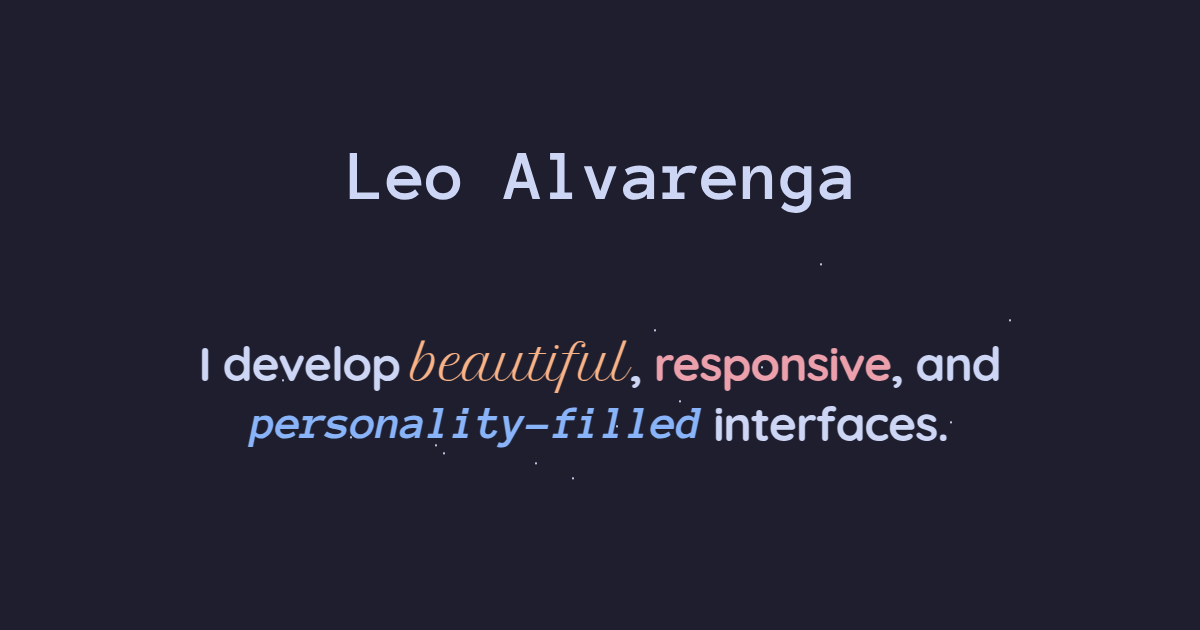
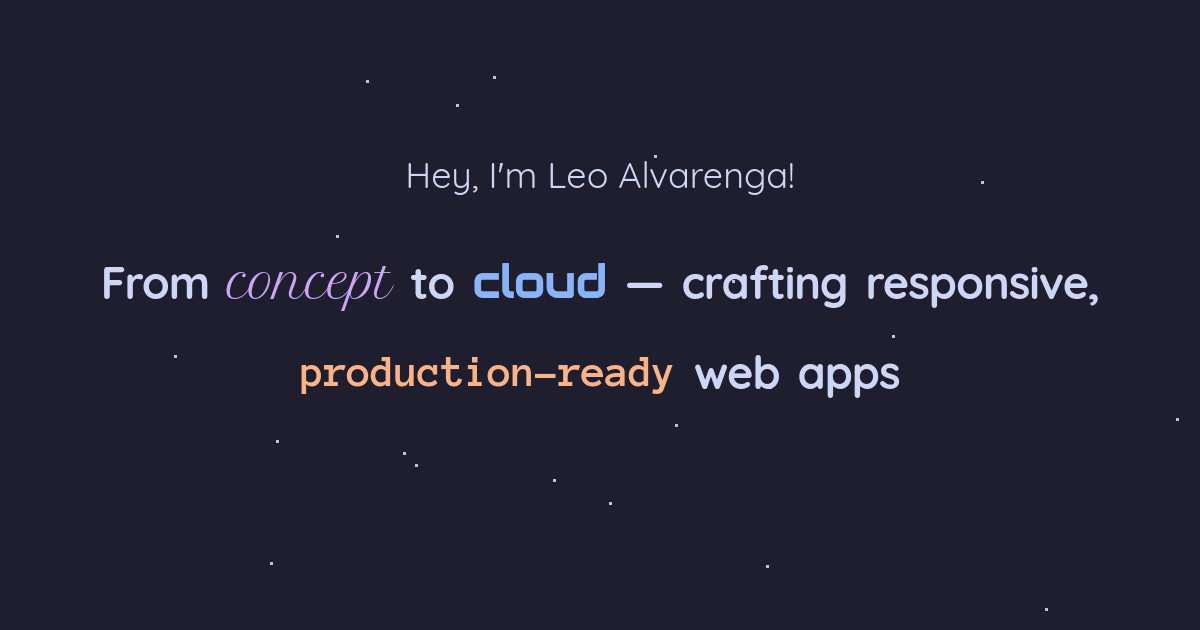
feat: add new title and og images

Changed region(s): [[0.1542, 0.5429, 0.8325, 0.7238], [0.0617, 0.4222, 0.925, 0.4825], [0.2775, 0.2413, 0.7092, 0.3619]]

diff --git a/src/utils/contants.ts b/src/utils/contants.ts
@@ -14,7 +14,7 @@ import { Language } from "../config";
 import type { OpenGraphOptionsImage } from "./types";
 
 export const PAGE_TITLE_PREFFIX = "Leonardo Alvarenga";
-export const DEFAULT_PAGE_TITLE = `${PAGE_TITLE_PREFFIX} - Frontend Software Engineer`;
+export const DEFAULT_PAGE_TITLE = `${PAGE_TITLE_PREFFIX} - Software Engineer`;
 
 export const DEFAULT_DATE_FORMAT = "MMM, YYYY";
 
